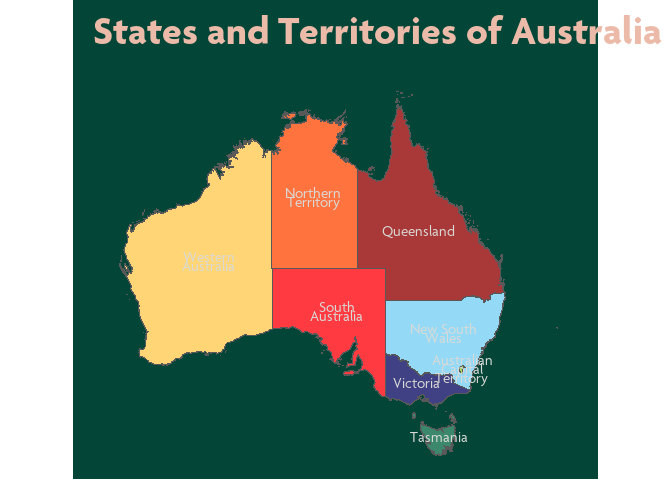
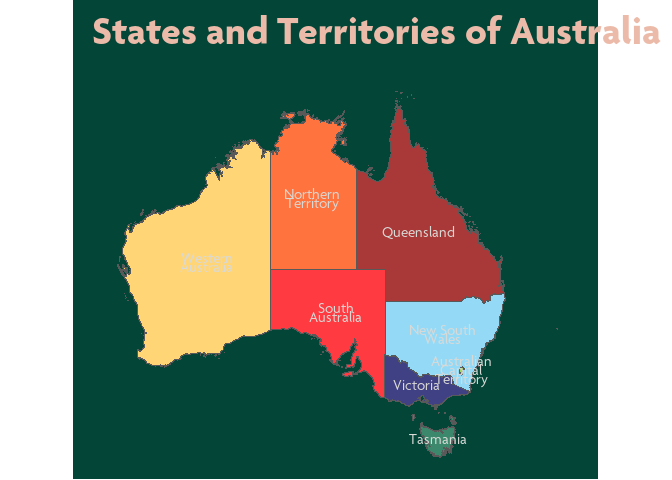
Tidy readme

diff --git a/README.md b/README.md
@@ -28,25 +28,24 @@ devtools::install_github("zerogetsamgow/cubethemes")
 
 ## Usage
 
+    #> ── Attaching core tidyverse packages ───────── tidyverse 2.0.0 ──
+    #> ✔ dplyr     1.1.4     ✔ readr     2.1.5
+    #> ✔ forcats   1.0.0     ✔ stringr   1.5.1
+    #> ✔ lubridate 1.9.3     ✔ tibble    3.2.1
+    #> ✔ purrr     1.0.2     ✔ tidyr     1.3.1
+    #> ── Conflicts ─────────────────────────── tidyverse_conflicts() ──
+    #> ✖ dplyr::filter() masks stats::filter()
+    #> ✖ dplyr::lag()    masks stats::lag()
+    #> ℹ Use the conflicted package (<http://conflicted.r-lib.org/>) to force all conflicts to become errors
+
 {cubethemes} is designed to produce {gglot2} that comply with the Cube
 Brand Guidelines simply. For example.
 
 ``` r
-library(ggplot2)
-library(tidyverse)
-#> ── Attaching core tidyverse packages ───────── tidyverse 2.0.0 ──
-#> ✔ dplyr     1.1.4     ✔ readr     2.1.5
-#> ✔ forcats   1.0.0     ✔ stringr   1.5.1
-#> ✔ lubridate 1.9.3     ✔ tibble    3.2.1
-#> ✔ purrr     1.0.2     ✔ tidyr     1.3.1
-#> ── Conflicts ─────────────────────────── tidyverse_conflicts() ──
-#> ✖ dplyr::filter() masks stats::filter()
-#> ✖ dplyr::lag()    masks stats::lag()
-#> ℹ Use the conflicted package (<http://conflicted.r-lib.org/>) to force all conflicts to become errors
 library(cubethemes)
 library(cubepalette)
 #> Loading required package: palettes
-library(stringr)
+
 ## basic example code
 ggplot2::ggplot(data=iris,aes(x=Sepal.Length, y = Petal.Length,colour=Species)) +
   geom_point(size=3) +
@@ -56,7 +55,7 @@ ggplot2::ggplot(data=iris,aes(x=Sepal.Length, y = Petal.Length,colour=Species)) 
   theme_cube_white()
 ```
 
-<img src="man/figures/README-white example-1.png" width="100%" />
+<img src="man/figures/README-white_example-1.png" width="100%" />
 
 ## Three themes to cubify them all
 
@@ -138,7 +137,7 @@ ggplot(
   geom_text(family="Agenda",colour = cubepalette::cube.darkgreen, lineheight=.5)+
   scale_fill_manual(guide='none',values=colorspace::lighten(strayr::palette_state_name_2016,.7)) +
   labs(title="States and Territories of Australia")+
-  theme_cube_map(base_colour = "grey")
+  theme_cube_map(base_colour = "grey", base_size = 10)
 ```
 
 <img src="man/figures/README-map_grey-1.png" width="100%" />
@@ -163,8 +162,8 @@ ggplot(
   geom_text(family="Agenda",colour = cubepalette::cube.grey, lineheight=.5)+
   scale_fill_manual(guide='none',values=colorspace::lighten(strayr::palette_state_name_2016,.2)) +
   labs(title="States and Territories of Australia")+
-  theme_cube_map(base_colour = "green")
-#> Reading state2021 file found in C:\Users\SAMUEL~1\AppData\Local\Temp\RtmpU1Tgzk
+  theme_cube_map(base_colour = "green", base_size = 10)
+#> Reading state2021 file found in C:\Users\SAMUEL~1\AppData\Local\Temp\RtmpU1WDyH
 ```
 
 <img src="man/figures/README-map_green-1.png" width="100%" />
